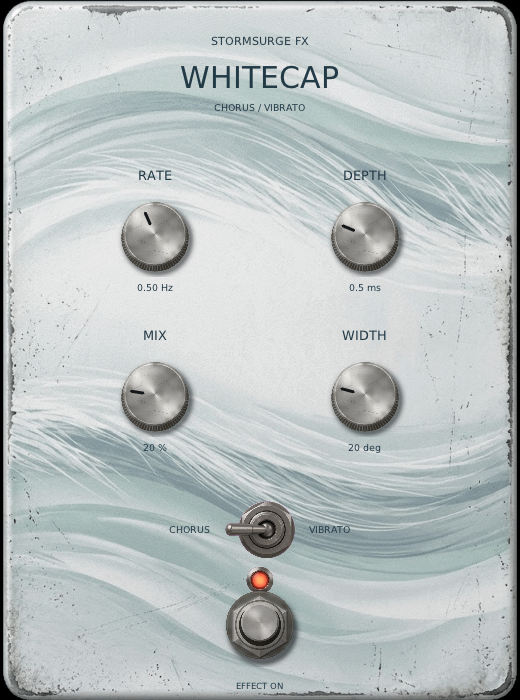
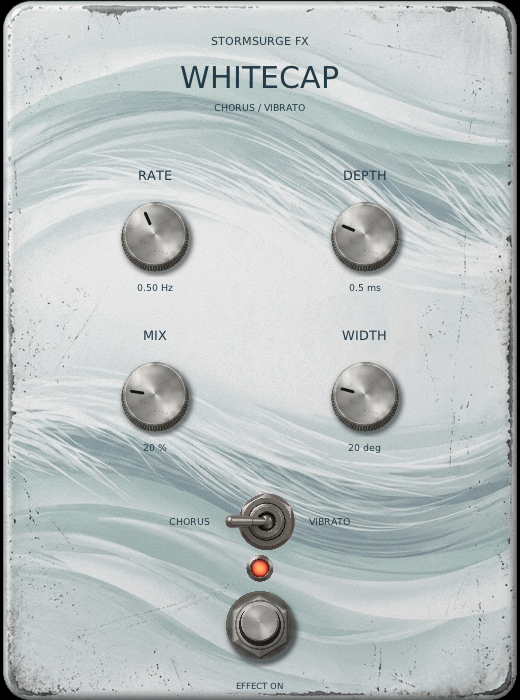
Space Whitecap LED above footswitch

Changed region(s): [[0.4308, 0.69, 0.6769, 0.87], [0.3385, 0.72, 0.4, 0.78]]

diff --git a/src/WhitecapParameters.hpp b/src/WhitecapParameters.hpp
@@ -60,9 +60,9 @@ inline float denormalizedWhitecap(std::uint32_t index, float position) noexcept
 
 inline constexpr double WhitecapUiWidth = 520;
 inline constexpr double WhitecapHeight = 700;
-inline constexpr double WhitecapModeY = 530;
+inline constexpr double WhitecapModeY = 522;
 inline constexpr double WhitecapFootY = 625;
-inline constexpr double WhitecapLedY = 580;
+inline constexpr double WhitecapLedY = 568;
 
 struct WhitecapKnobPosition {
     std::uint32_t parameter;
